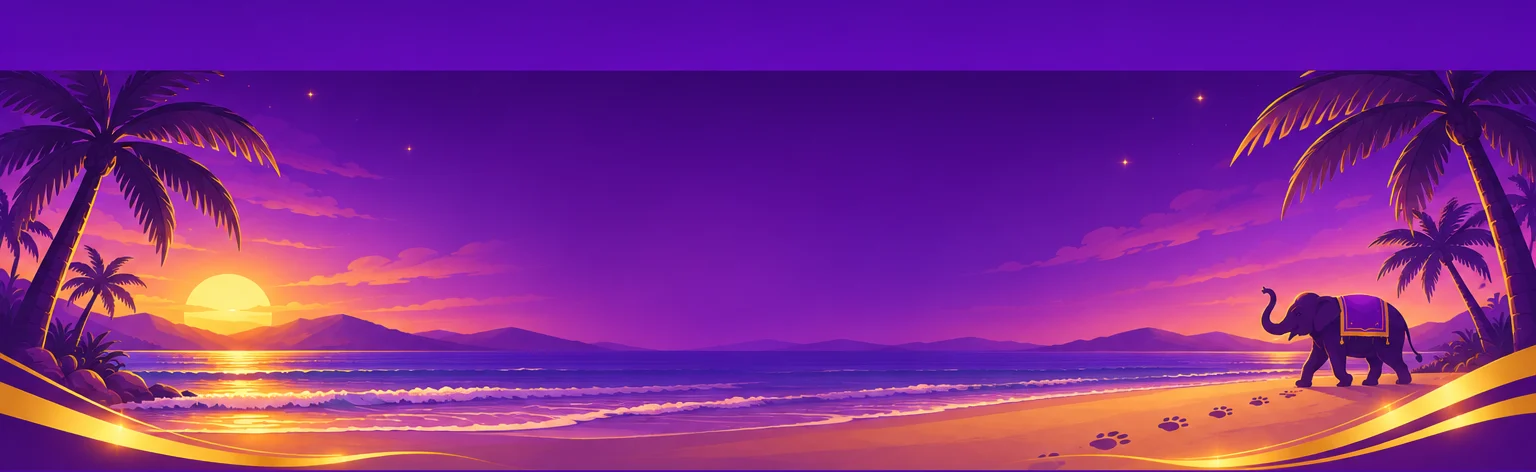
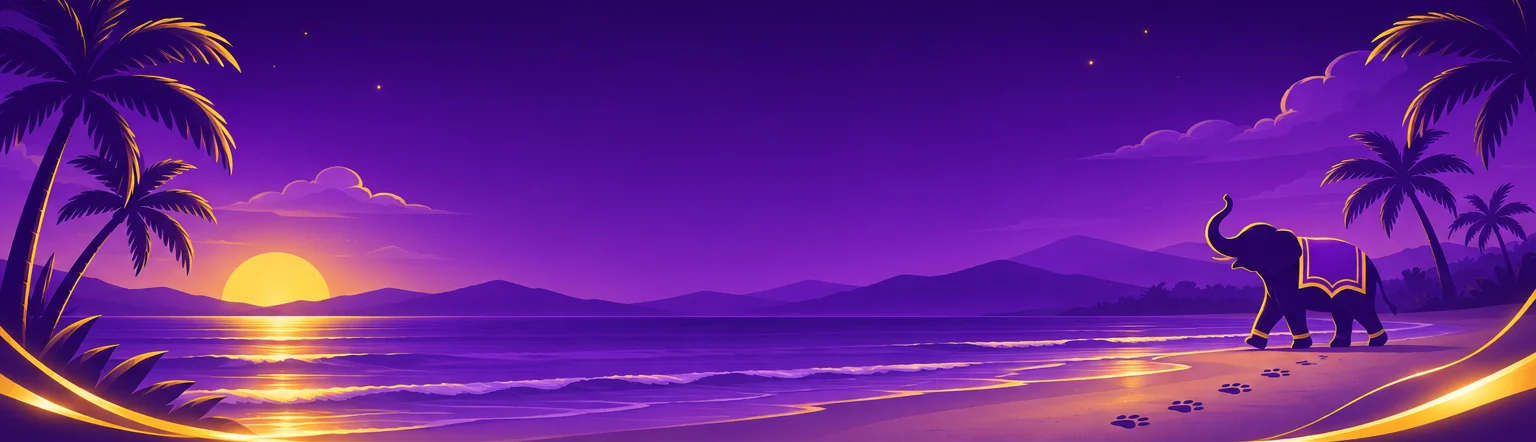
Concert backgrounds regenerated in a strict royal purple + gold palette (stage, header, footer)

diff --git a/src/components/ConcertSection.tsx b/src/components/ConcertSection.tsx
@@ -38,7 +38,7 @@ export const ConcertSection: React.FC = () => {
       <div className="max-w-[1100px] mx-auto px-4 sm:px-6">
         <div className="ds-frame-dark relative overflow-hidden bg-[#2A1450] text-white">
           {/* ---------- header scene ---------- */}
-          <div className="relative overflow-hidden bg-[#34108C]">
+          <div className="relative overflow-hidden bg-[#2A1450]">
             <img src="/images/concert/conc-header.webp" alt="" aria-hidden="true" decoding="async" className="absolute inset-0 h-full w-full object-cover object-[30%_center] sm:object-center" />
             <span aria-hidden="true" className="absolute inset-0 bg-gradient-to-b from-[#2A1450]/30 via-transparent to-[#2A1450]/40" />
             <div className="relative px-4 pb-8 pt-8 text-center sm:px-8 sm:pb-12 sm:pt-12">
@@ -66,7 +66,7 @@ export const ConcertSection: React.FC = () => {
                 <img src="/images/concert/conc-stage.webp" alt="" aria-hidden="true" decoding="async" className="absolute inset-0 h-full w-full object-cover" />
                 <div className="relative z-[2] flex flex-col gap-2 px-4 pt-5 sm:flex-row sm:items-start sm:justify-between sm:px-7 sm:pt-6">
                   <div>
-                    <span className="inline-flex items-center gap-2 rounded-full bg-gradient-to-r from-[#F43F5E] via-[#A855F7] to-[#7C3AED] px-4 py-1.5 text-xs font-black tracking-wider text-white shadow-[0_0_18px_rgba(168,85,247,0.7)] sm:text-sm">
+                    <span className="inline-flex items-center gap-2 rounded-full bg-gradient-to-r from-[#7C3AED] to-[#4B1FA8] px-4 py-1.5 text-xs font-black tracking-wider text-[#FFE268] ring-1 ring-[#FFC928]/70 shadow-[0_0_18px_rgba(168,85,247,0.7)] sm:text-sm">
                       ✨ LINE-UP 2027
                     </span>
                     <h3 className="mt-2 font-hero text-[1.75rem] font-black italic leading-[1.2] sm:text-4xl lg:text-5xl">
